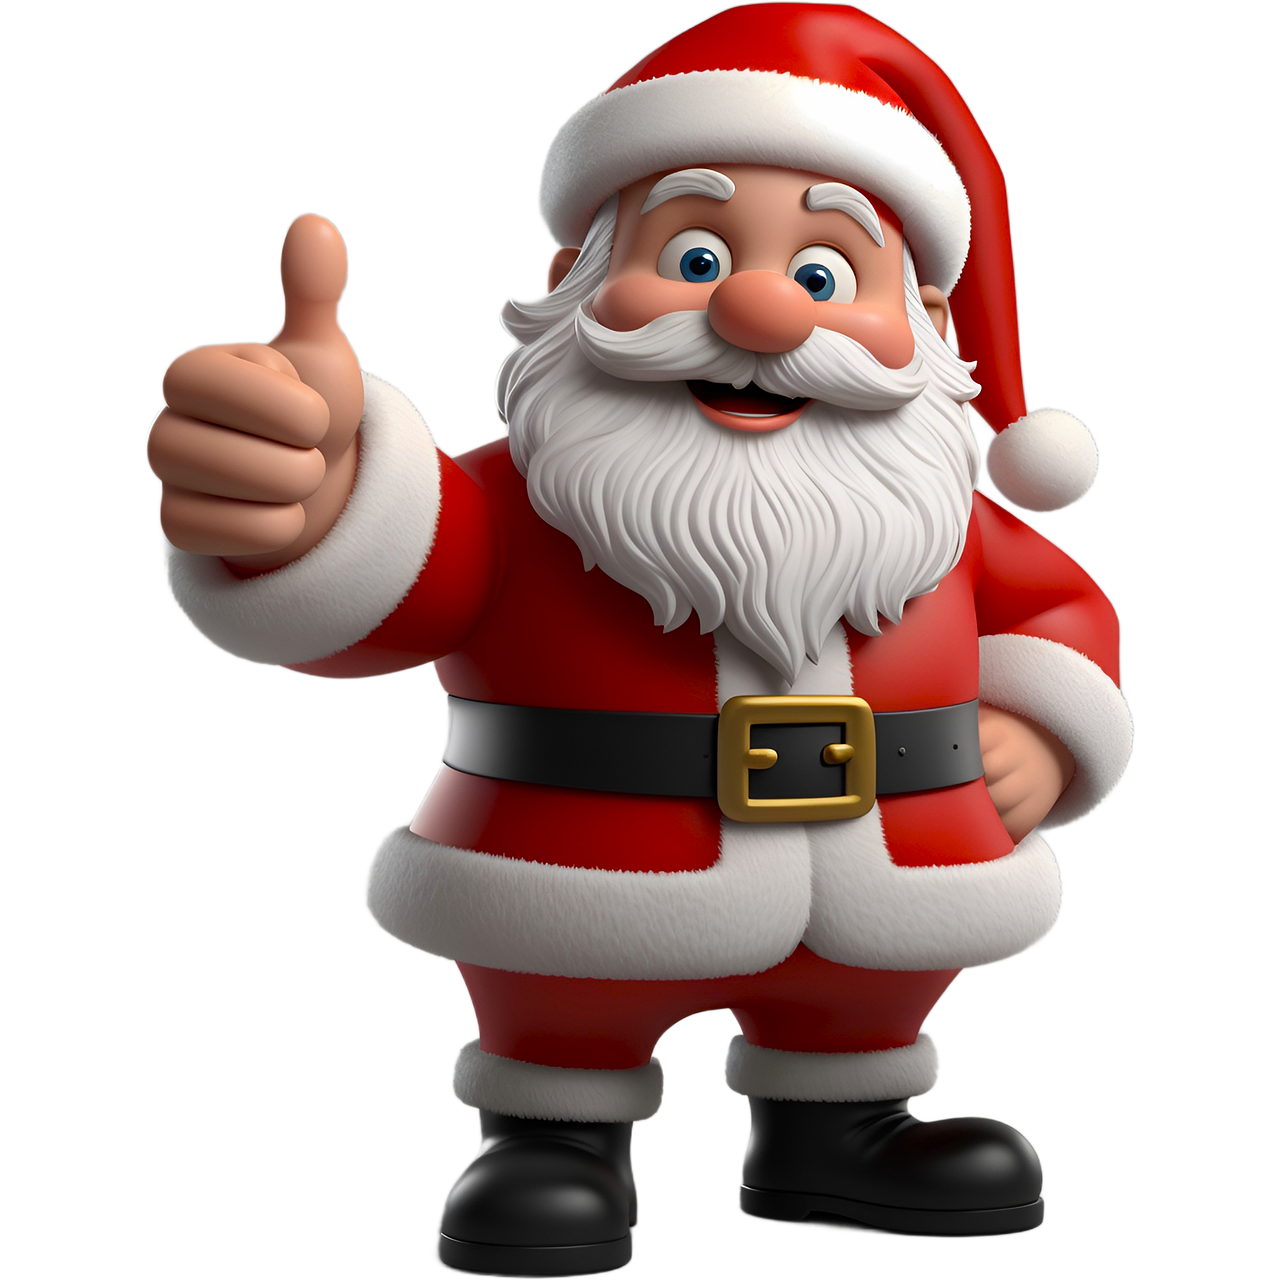
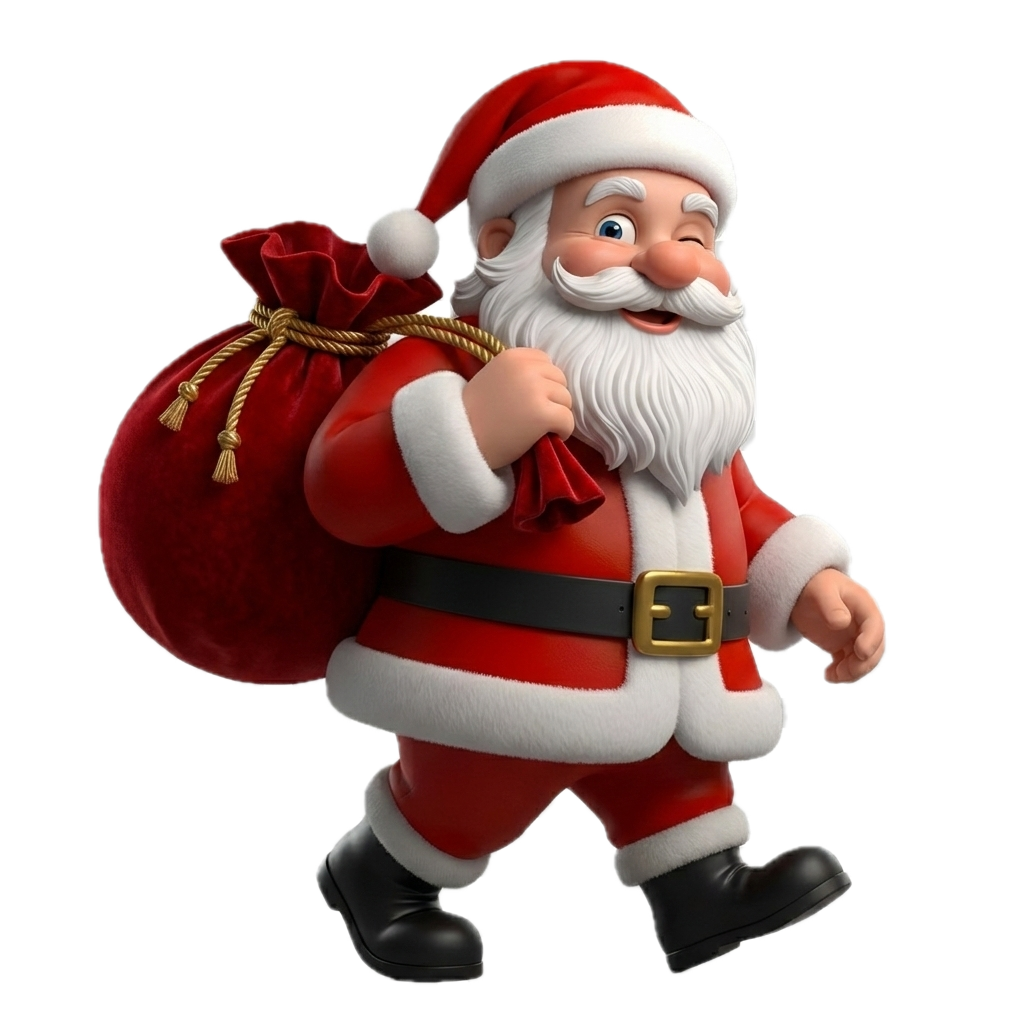
- swapped walking santa - fixed left peek

diff --git a/content.js b/content.js
@@ -15,20 +15,9 @@
     return santa;
   }
 
-  function createPeekSanta() {
-    const SANTA_ID = "santa-peek";
+  let santaBusy = false;
 
-    let santa = document.getElementById(SANTA_ID);
-    if (!santa) {
-      santa = document.createElement("img");
-      santa.id = SANTA_ID;
-      santa.src = chrome.runtime.getURL("images/peek-santa.png");
-      document.body.appendChild(santa);
-    }
-    return santa;
-  }
-
-  function walkSantaAcrossScreen() {
+  function walkSantaAcrossScreen(onDone) {
     const santa = createSanta();
     const rect = santa.getBoundingClientRect();
     const santaWidth = rect.width || 120;
@@ -73,6 +62,7 @@
         requestAnimationFrame(step);
       } else {
         santa.style.left = "-200px";
+        onDone?.(); // 🔓
       }
     }
 
@@ -87,23 +77,6 @@
       santa.src = chrome.runtime.getURL("images/peek-santa.png");
       santa.style.position = "fixed";
       santa.style.bottom = "15%";
-      santa.style.right = "-220px"; // start off-screen
-      santa.style.width = "200px";
-      santa.style.height = "auto";
-      santa.style.zIndex = "2147483647";
-      santa.style.pointerEvents = "none";
-      document.body.appendChild(santa);
-    }
-    return santa;
-  }
-  function createPeekSanta() {
-    let santa = document.getElementById("santa-peek");
-    if (!santa) {
-      santa = document.createElement("img");
-      santa.id = "santa-peek";
-      santa.src = chrome.runtime.getURL("images/peek_santa.png");
-      santa.style.position = "fixed";
-      santa.style.bottom = "15%";
       santa.style.width = "200px";
       santa.style.height = "auto";
       santa.style.zIndex = "2147483647";
@@ -113,7 +86,9 @@
     return santa;
   }
 
-  function peekSantaFromSide() {
+  let lastPeekSide = null; // "left" | "right"
+
+  function peekSantaFromSide(onDone) {
     const santa = createPeekSanta();
 
     // prevent the "barely appears then retreats" issue
@@ -125,8 +100,17 @@
     const hidden = -220; // fully off-screen
     const shown = -50; // hugs the edge (compensates for PNG padding)
 
-    const fromLeft = Math.random() < 0.5;
+    // Keep alternating sides if possible. Avoid too many same-side peeks in a row.
+    const fromLeft =
+      lastPeekSide === "left"
+        ? false
+        : lastPeekSide === "right"
+        ? true
+        : Math.random() < 0.5;
 
+    lastPeekSide = fromLeft ? "left" : "right";
+
+    let animate;
     if (fromLeft) {
       // LEFT side: animate LEFT property
       santa.style.left = hidden + "px";
@@ -135,7 +119,7 @@
       // Flip so he faces into the page (optional but looks better)
       santa.style.transform = "scaleX(-1)";
 
-      santa.animate(
+      animate = santa.animate(
         [
           { left: hidden + "px" },
           { left: shown + "px" },
@@ -151,7 +135,7 @@
 
       santa.style.transform = "scaleX(1)";
 
-      santa.animate(
+      animate = santa.animate(
         [
           { right: hidden + "px" },
           { right: shown + "px" },
@@ -161,24 +145,51 @@
         { duration, easing: "ease-in-out", fill: "forwards" }
       );
     }
+    if (animate) {
+      animate.onfinish = () => onDone?.();
+      animate.oncancel = () => onDone?.(); // safety: if canceled, still unlock
+    } else {
+      onDone?.();
+    }
   }
 
   function scheduleSanta() {
-    const min = 10_000; // 1 minute
-    const max = 20_000; // 5 minutes
+    const walkMin = 360_000,
+      walkMax = 900_000;
+    const peekMin = 120_000,
+      peekMax = 360_000;
+
+    // choose a delay *type* now, but choose the action later only if free
+    const planWalk = Math.random() < 0.2;
+    const min = planWalk ? walkMin : peekMin;
+    const max = planWalk ? walkMax : peekMax;
+
     const delay = Math.random() * (max - min) + min;
-    console.log(`Sant will be walking in ${delay} ms`);
 
     setTimeout(() => {
-      if (document.visibilityState === "visible") {
-        console.log("Here comes Santa!");
-        // 50/50 chance to walk or peek
-        //   if (Math.random() < 0.1) {
-        //     walkSantaAcrossScreen();
-        //   } else {
-        peekSantaFromSide();
-        //   }
+      if (document.visibilityState !== "visible") {
+        scheduleSanta();
+        return;
       }
+
+      if (santaBusy) {
+        setTimeout(scheduleSanta, 3000); // try again in 3s
+        return;
+      }
+
+      santaBusy = true;
+
+      // use the planned type (so timing matches behavior)
+      if (planWalk) {
+        walkSantaAcrossScreen(() => {
+          santaBusy = false;
+        });
+      } else {
+        peekSantaFromSide(() => {
+          santaBusy = false;
+        });
+      }
+
       scheduleSanta();
     }, delay);
   }

diff --git a/styles.css b/styles.css
@@ -1,13 +1,12 @@
 #santa-walker {
   position: fixed;
   bottom: 0;
-  left: -200px;  
+  left: -200px;
   width: 120px;
   height: auto;
   z-index: 2147483647;
   pointer-events: none;
 }
-
 
 /* Base Santa styling (you already have something like this) */
 #santa-walker {
@@ -68,9 +67,8 @@
 
 #santa-peek {
   position: fixed;
-  bottom: 15%;           /* vertical position */
-  right: -220px;         /* fully off-screen to the right */
-  width: 200px;          /* tweak size as you like */
+  bottom: 15%;
+  width: 200px;
   height: auto;
   z-index: 2147483647;
   pointer-events: none;
